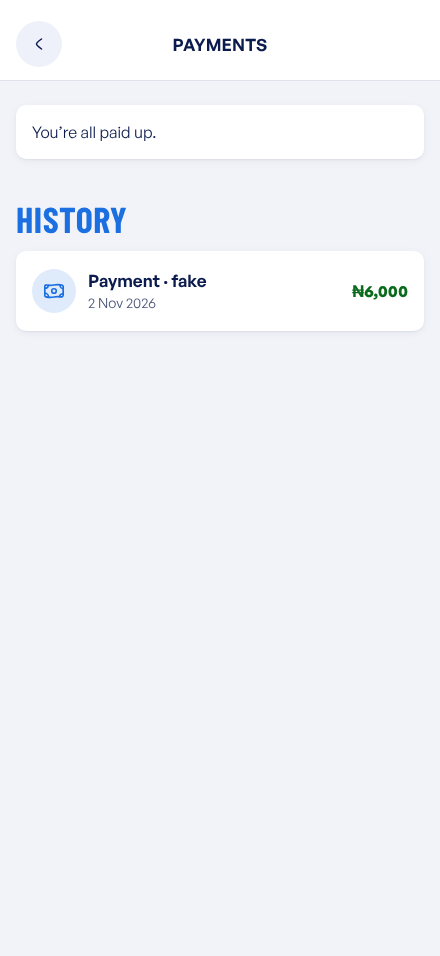
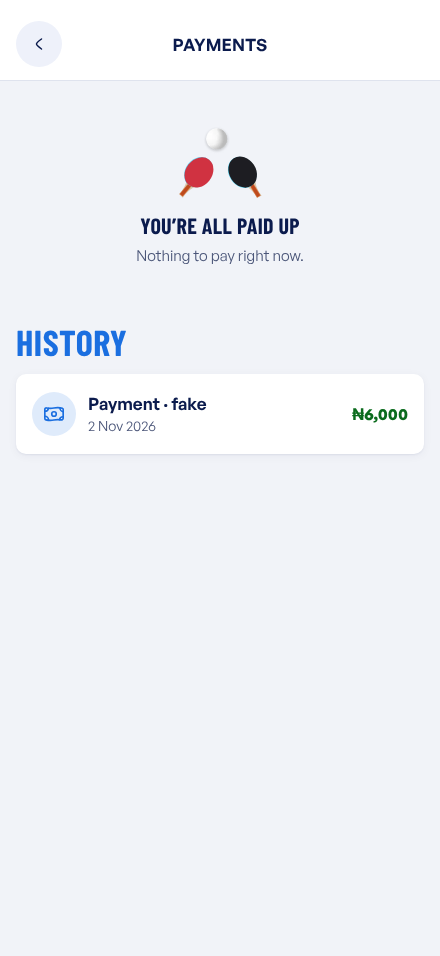
Consistent empty states: Plans and every empty list use EmptyState, toolbar + New hidden while empty, guard test
Claude-Session: https://claude.ai/code/session_01WnCbHNPy9eR9VxjE6twKj1

diff --git a/apps/club/app/(adminflow)/membership/subscriptions/Plans.tsx b/apps/club/app/(adminflow)/membership/subscriptions/Plans.tsx
@@ -1,7 +1,7 @@
 "use client";
 import { useState, useTransition } from "react";
 import { useRouter } from "next/navigation";
-import { Button, Icon, Panel, Segmented, Switch, TextField } from "@rallix/ui";
+import { Button, EmptyState, Icon, Panel, Segmented, Switch, TextField } from "@rallix/ui";
 import { billMembers, savePlan, setPlanActive } from "../../../../lib/actions";
 
 type Plan = { id: string; name: string; priceKobo: number; period: "monthly" | "yearly"; perks: string[]; active: boolean };
@@ -24,7 +24,7 @@ export function Plans({ plans }: { plans: Plan[] }) {
     <>
       <div style={{ display: "flex", gap: 12, alignItems: "center" }}>
         <div style={{ flex: 1 }}><Segmented label="Billing period" value={period} onChange={setPeriod} options={[{ value: "monthly", label: "Monthly" }, { value: "yearly", label: "Yearly" }]} /></div>
-        <Button onClick={() => { setAdding(!adding); setName(""); setPrice(""); }}>+ New</Button>
+        {shown.length > 0 || adding ? <Button onClick={() => { setAdding(!adding); setName(""); setPrice(""); }}>+ New</Button> : null}
       </div>
       {adding ? (
         <Panel title="New plan">
@@ -54,7 +54,7 @@ export function Plans({ plans }: { plans: Plan[] }) {
           )}
         </Panel>
       ))}
-      {shown.length === 0 && !adding ? <p className="rx-muted" style={{ marginTop: 16 }}>No {period} plans yet. Tap + New to add one.</p> : null}
+      {shown.length === 0 && !adding ? <EmptyState compact title={`No ${period} plans yet`} hint="Add a plan so you can bill your members." action={<Button onClick={() => { setAdding(true); setName(""); setPrice(""); }}>Add a {period} plan</Button>} /> : null}
       <p role="status" aria-live="polite" className="rx-muted">{msg}</p>
     </>
   );

diff --git a/apps/club/app/(adminflow)/membership/rallix/page.tsx b/apps/club/app/(adminflow)/membership/rallix/page.tsx
@@ -1,5 +1,5 @@
 import Link from "next/link";
-import { BackButton, IconBadge, ListActions, ListGroup, ListRow, MetricCard, MetricGrid, PageShell, Pill } from "@rallix/ui";
+import { BackButton, EmptyState, IconBadge, ListActions, ListGroup, ListRow, MetricCard, MetricGrid, PageShell, Pill } from "@rallix/ui";
 import { requireRole } from "../../../../lib/context";
 import { rallixBilling } from "../../../../lib/payment-queries";
 import { naira } from "../../../../lib/queries";
@@ -16,7 +16,7 @@ export default async function RallixBilling() {
           <MetricCard label="Your plan" value={naira(s.amountKobo)} hint={`per ${s.period === "monthly" ? "month" : "year"}`} />
           <MetricCard label={s.status === "active" ? "Renews" : "Status"} value={s.status === "active" ? fmt(s.currentPeriodEnd).replace(/ \d{4}$/, "") : s.status.replace("_", " ")} tone={s.status === "active" ? "good" : "bad"} hint={s.status === "active" ? "Active" : `Period ends ${fmt(s.currentPeriodEnd)}`} />
         </MetricGrid>
-      ) : <p className="rx-muted" style={{ margin: 0 }}>No subscription yet. Rallix will contact you to set one up.</p>}
+      ) : <EmptyState compact title="No subscription yet" hint="Rallix will contact you to set one up." />}
       {invoices.length > 0 ? (
         <>
           <h2 className="rx-panel__title" style={{ margin: "32px 0 0" }}>Invoices</h2>
@@ -28,7 +28,7 @@ export default async function RallixBilling() {
             ])}
           </ListGroup>
         </>
-      ) : <p className="rx-muted" style={{ marginTop: 16 }}>No invoices yet.</p>}
+      ) : <EmptyState compact title="No invoices yet" hint="Invoices from Rallix will show up here." />}
     </PageShell>
   );
 }

diff --git a/apps/club/app/(adminflow)/membership/payments/Payments.tsx b/apps/club/app/(adminflow)/membership/payments/Payments.tsx
@@ -1,7 +1,7 @@
 "use client";
 import { useState, useTransition } from "react";
 import { useRouter } from "next/navigation";
-import { Button, ListActions, ListGroup, ListRow, Photo, Pill, Segmented } from "@rallix/ui";
+import { Button, EmptyState, ListActions, ListGroup, ListRow, Photo, Pill, Segmented } from "@rallix/ui";
 import { recordManualPayment } from "../../../../lib/payment-actions";
 
 const filters = ["all", "paid", "pending", "failed", "refunded"] as const;
@@ -31,7 +31,7 @@ export function Payments({ rows }: { rows: Row[] }) {
   return (
     <>
       <Segmented scroll label="Payment status" value={f} onChange={setF} options={filters.map((v) => ({ value: v, label: label[v] }))} />
-      {shown.length === 0 ? <p className="rx-muted" style={{ marginTop: 16 }}>{rows.length === 0 ? "No dues yet. Open Plans and tap Bill all members." : `Nothing ${label[f].toLowerCase()}.`}</p> : (
+      {shown.length === 0 ? (rows.length === 0 ? <EmptyState compact title="No dues yet" hint="Open Plans and tap Bill all members." action={<a className="rx-btn" href="/membership/subscriptions">Open plans</a>} /> : <EmptyState compact title={`Nothing ${label[f].toLowerCase()}`} />) : (
         <ListGroup label="Member payments">
           {shown.flatMap((p) => [
             <ListRow key={p.dueId} media={<Photo src={p.photo} name={p.name} alt="" />} title={p.name} subtitle={p.detail} trailing={<>{p.amount} {p.status !== "paid" ? <Pill tone={tone[p.status]}>{label[p.status]}</Pill> : <Pill tone="success">Paid</Pill>}</>} />,

diff --git a/apps/club/app/(adminflow)/competition/new/[level]/auto/SelectionForm.tsx b/apps/club/app/(adminflow)/competition/new/[level]/auto/SelectionForm.tsx
@@ -2,7 +2,7 @@
 import Link from "next/link";
 import { useRouter, useSearchParams } from "next/navigation";
 import { useState } from "react";
-import { BackButton, CheckRow, ChoiceToggle, ListGroup, PageShell, Panel, Photo, TextField } from "@rallix/ui";
+import { BackButton, CheckRow, ChoiceToggle, ListGroup, PageShell, Panel, Photo, TextField, EmptyState } from "@rallix/ui";
 import { createCompetition } from "../../../../../../lib/actions";
 
 type M = { id: string; name: string; rank: number; photo: string | null };
@@ -47,7 +47,7 @@ export function SelectionForm({ level, members }: { level: string; members: M[] 
             options={[{ value: "group_stage", label: "Group Stage", icon: "grid" }, { value: "one_on_one", label: "One on One", icon: "members" }]} />
         </Panel>
         <h2 className="rx-panel__title" style={{ margin: "32px 0 0" }}>Players ({ids.length})</h2>
-        {members.length === 0 ? <p className="rx-muted">No players at this level yet. Share your invite link, or pick “Combine levels”.</p> : (
+        {members.length === 0 ? <EmptyState compact title="No players at this level yet" hint="Share your invite link, or pick “Combine levels”." /> : (
           <ListGroup label="Players participating in the competition">
             {members.map((p) => <CheckRow key={p.id} media={<Photo src={p.photo} name={p.name} alt="" />} title={p.name} subtitle={`Rank ${p.rank}`} checked={!!picked[p.id]} onChange={(v) => setPicked({ ...picked, [p.id]: v })} />)}
           </ListGroup>

diff --git a/apps/club/app/(adminflow)/membership/reminders/page.tsx b/apps/club/app/(adminflow)/membership/reminders/page.tsx
@@ -1,5 +1,5 @@
 import Link from "next/link";
-import { BackButton, IconBadge, ListGroup, ListRow, PageShell, Pill } from "@rallix/ui";
+import { BackButton, EmptyState, IconBadge, ListGroup, ListRow, PageShell, Pill } from "@rallix/ui";
 import { describeOffset } from "@rallix/payments";
 import { requireRole } from "../../../../lib/context";
 import { reminderOverview, reminderSettingsFor } from "../../../../lib/reminder-queries";
@@ -14,7 +14,7 @@ export default async function Reminders() {
       <p className="rx-muted" style={{ margin: "0 0 16px" }}>Email members who haven’t paid, before and after their due date. Anyone who has paid, left the club, or switched reminders off never gets one, and nobody gets the same reminder twice.</p>
       <ReminderForm enabled={settings.enabled} offsets={settings.offsets} unpaid={ov.unpaid} optedOut={ov.optedOut} />
       <h2 className="rx-panel__title" style={{ margin: "32px 0 0" }}>Recently sent</h2>
-      {ov.recent.length === 0 ? <p className="rx-muted">Nothing sent yet.</p> : (
+      {ov.recent.length === 0 ? <EmptyState compact title="Nothing sent yet" hint="Reminders you send will be listed here." /> : (
         <ListGroup label="Recently sent reminders">
           {ov.recent.map((r, i) => (
             <ListRow key={i} media={<IconBadge icon="mail" />} title={r.name} subtitle={`${describeOffset(r.offset)} the due date · ${when(r.at)}`}

diff --git a/apps/club/app/(admin)/page.tsx b/apps/club/app/(admin)/page.tsx
@@ -1,5 +1,5 @@
 import Link from "next/link";
-import { ActionButton, Carousel, ClubBanner, ListGroup, ListRow, MediaCard, MetricCard, MetricGrid, PageShell, Panel, Photo, SectionTitle, StackedBar } from "@rallix/ui";
+import { ActionButton, Carousel, ClubBanner, EmptyState, ListGroup, ListRow, MediaCard, MetricCard, MetricGrid, PageShell, Panel, Photo, SectionTitle, StackedBar } from "@rallix/ui";
 import { mergeActivity, membershipOverview, type Activity } from "@rallix/stats";
 import { ClubHeader } from "../../components/ClubHeader";
 import { inClub, requireRole } from "../../lib/context";
@@ -52,7 +52,7 @@ export default async function Home() {
         <Carousel label="Upcoming competitions">
           {comps.map((c) => <MediaCard key={c.id} name={c.name} detail={`${d.entries[c.id] ?? 0} registered${c.startsOn ? ` · ${dayLabel(new Date(`${c.startsOn}T12:00:00`))}` : ""}`} tag={c.status === "active" ? "Active" : "Draft"} href={`/competition/${c.id}/groups`} linkAs={Link} />)}
         </Carousel>
-      ) : <Panel><p className="rx-muted" style={{ margin: 0 }}>No competition yet. Create one to get players registering.</p></Panel>}
+      ) : <EmptyState compact title="No competitions yet" hint="Create one to get players registering." />}
 
       <SectionTitle title="Membership overview" href="/membership/payments" linkAs={Link} label="See payments" />
       <Panel>

diff --git a/apps/club/app/(playerflow)/play/me/payments/page.tsx b/apps/club/app/(playerflow)/play/me/payments/page.tsx
@@ -1,5 +1,5 @@
 import Link from "next/link";
-import { BackButton, IconBadge, ListGroup, ListRow, PageShell, Panel, Pill, SectionTitle } from "@rallix/ui";
+import { BackButton, EmptyState, IconBadge, ListGroup, ListRow, PageShell, Panel, Pill, SectionTitle } from "@rallix/ui";
 import { PayButton } from "../../../../../components/PayButton";
 import { inClub, requireClub } from "../../../../../lib/context";
 import { payoutsEnabled } from "../../../../../lib/payment-queries";
@@ -22,7 +22,7 @@ export default async function PlayerPayments() {
           {due.status === "overdue" ? <p style={{ margin: "0 0 12px" }}><Pill tone="warning">Overdue</Pill></p> : null}
           <PayButton dueId={due.id} amount={naira(due.amountKobo)} enabled={payOn} />
         </Panel>
-      ) : <Panel><p style={{ margin: 0 }}>{d.dues.length ? "You’re all paid up." : "No dues yet."}</p></Panel>}
+      ) : <EmptyState compact title={d.dues.length ? "You’re all paid up" : "No dues yet"} hint={d.dues.length ? "Nothing to pay right now." : "Dues your club bills you will show up here."} />}
       {optedOut ? <p className="rx-muted" style={{ fontSize: 14 }}>You’ve turned off reminder emails, so check here for what’s due. <Link href="/play/me" style={{ textDecoration: "underline" }}>Change this</Link></p> : null}
       {d.pays.length > 0 ? (
         <>

diff --git a/apps/club/app/(adminflow)/competition/[id]/groups/page.tsx b/apps/club/app/(adminflow)/competition/[id]/groups/page.tsx
@@ -1,6 +1,6 @@
 import Link from "next/link";
 import { notFound } from "next/navigation";
-import { BackButton, PageShell } from "@rallix/ui";
+import { BackButton, EmptyState, PageShell } from "@rallix/ui";
 import { RoundResults } from "../../../../../components/RoundResults";
 import { canScore, inClub, requireRole } from "../../../../../lib/context";
 import { getCompetition, listMatches } from "../../../../../lib/queries";
@@ -21,7 +21,7 @@ export default async function Groups({ params }: { params: Promise<{ id: string 
   const open = (m: (typeof data.ms)[number]) => mayScore && m.status !== "completed" && !!m.p1 && !!m.p2;
   return (
     <PageShell back={<BackButton href="/competition" linkAs={Link} />} title={data.c.name}>
-      {data.ms.length === 0 ? <p className="rx-muted" style={{ margin: 0 }}>No matches yet.</p> : (
+      {data.ms.length === 0 ? <EmptyState compact title="No matches yet" hint="Fixtures appear once the draw is made." /> : (
         <RoundResults matches={data.ms} hrefFor={(m) => (open(m) ? `/competition/${id}/score?match=${m.id}` : undefined)} actionFor={(m) => (open(m) ? "Score" : undefined)} />
       )}
       <Link className="rx-btn rx-btn--block" style={{ marginTop: 32 }} href={`/competition/${id}/bracket`}>Results</Link>

diff --git a/apps/club/app/(player)/play/stats/page.tsx b/apps/club/app/(player)/play/stats/page.tsx
@@ -1,5 +1,5 @@
 import Link from "next/link";
-import { FormChips, ListGroup, ListRow, MetricCard, MetricGrid, PageShell, Panel, Photo, RankChart, StatBar } from "@rallix/ui";
+import { EmptyState, FormChips, ListGroup, ListRow, MetricCard, MetricGrid, PageShell, Panel, Photo, RankChart, StatBar } from "@rallix/ui";
 import { streakLabel } from "@rallix/stats";
 import { ClubHeader } from "../../../../components/ClubHeader";
 import { inClub, requireClub } from "../../../../lib/context";
@@ -20,7 +20,7 @@ export default async function Stats() {
         <MetricCard label="Played" value={String(r.played)} />
         <MetricCard label="Streak" value={streakLabel(r.streak)} />
       </MetricGrid>
-      {r.played === 0 ? <p className="rx-muted" style={{ marginTop: 16 }}>Your stats appear after your first confirmed match.</p> : (
+      {r.played === 0 ? <EmptyState compact title="No stats yet" hint="They appear after your first confirmed match." /> : (
         <>
           <Panel title={`Last ${r.form.length}, newest first`}><FormChips results={r.form} /></Panel>
           <Panel title="Games and points">

diff --git a/apps/club/app/(player)/play/compete/CompeteList.tsx b/apps/club/app/(player)/play/compete/CompeteList.tsx
@@ -1,7 +1,7 @@
 "use client";
 import Link from "next/link";
 import { useState } from "react";
-import { MediaCard, Segmented } from "@rallix/ui";
+import { EmptyState, MediaCard, Segmented } from "@rallix/ui";
 
 const tabs = ["Active", "Upcoming", "Past"] as const;
 type Tab = (typeof tabs)[number];
@@ -14,7 +14,7 @@ export function CompeteList({ rows }: { rows: Row[] }) {
     <>
       <Segmented label="Competition status" value={tab} onChange={setTab} options={tabs.map((t) => ({ value: t, label: t }))} />
       <div style={{ height: 16 }} />
-      {shown.length === 0 ? <p className="rx-muted">No {tab.toLowerCase()} competitions. Your club admin adds you when one is created.</p> : (
+      {shown.length === 0 ? <EmptyState compact title={`No ${tab.toLowerCase()} competitions`} hint="Your club admin adds you when one is created." /> : (
         <div className="rx-cstack">
           {shown.map((c) => <MediaCard key={c.id} name={c.name} detail={c.level ? `${c.level} · ${c.dates}` : c.dates} tag={c.tab} href={`/play/compete/${c.id}`} linkAs={Link} className="rx-ccard--wide" />)}
         </div>

diff --git a/apps/club/app/(player)/play/ranks/Ranks.tsx b/apps/club/app/(player)/play/ranks/Ranks.tsx
@@ -1,6 +1,6 @@
 "use client";
 import { useState } from "react";
-import { ListGroup, ListRow, Photo, Pill, Segmented } from "@rallix/ui";
+import { EmptyState, ListGroup, ListRow, Photo, Pill, Segmented } from "@rallix/ui";
 
 type R = { id: string; name: string; rank: number; points: number; photo: string | null };
 
@@ -10,7 +10,7 @@ export function Ranks({ clubName, club, global, meId, meUserId }: { clubName: st
   return (
     <>
       <Segmented label="Leaderboard" value={scope} onChange={setScope} options={[{ value: "club", label: clubName }, { value: "global", label: "Global" }]} />
-      {rows.length === 0 ? <p className="rx-muted" style={{ marginTop: 16 }}>No rated players yet.</p> : (
+      {rows.length === 0 ? <EmptyState compact title="No rated players yet" hint="Ratings start after the first confirmed match." /> : (
         <ListGroup label={scope === "club" ? "Club leaderboard" : "Global leaderboard"}>
           {rows.map((p) => {
             const you = scope === "club" ? p.id === meId : p.id === meUserId;

diff --git a/apps/club/app/(playerflow)/play/compete/[id]/page.tsx b/apps/club/app/(playerflow)/play/compete/[id]/page.tsx
@@ -1,6 +1,6 @@
 import Link from "next/link";
 import { notFound } from "next/navigation";
-import { BackButton, ListGroup, ListRow, PageShell, Photo, Pill, SectionTitle } from "@rallix/ui";
+import { BackButton, EmptyState, ListGroup, ListRow, PageShell, Photo, Pill, SectionTitle } from "@rallix/ui";
 import { inClub, requireClub } from "../../../../../lib/context";
 import { getCompetition, listMatches } from "../../../../../lib/queries";
 
@@ -36,7 +36,7 @@ export default async function CompDetail({ params }: { params: Promise<{ id: str
             })}
           </ListGroup>
         </>
-      ) : <p className="rx-muted" style={{ marginTop: 0 }}>You have no fixtures in this competition yet.</p>}
+      ) : <EmptyState compact title="No fixtures yet" hint="Your matches will be listed here." />}
       {rounds.map((round) => (
         <div key={round}>
           <SectionTitle title={round} />
